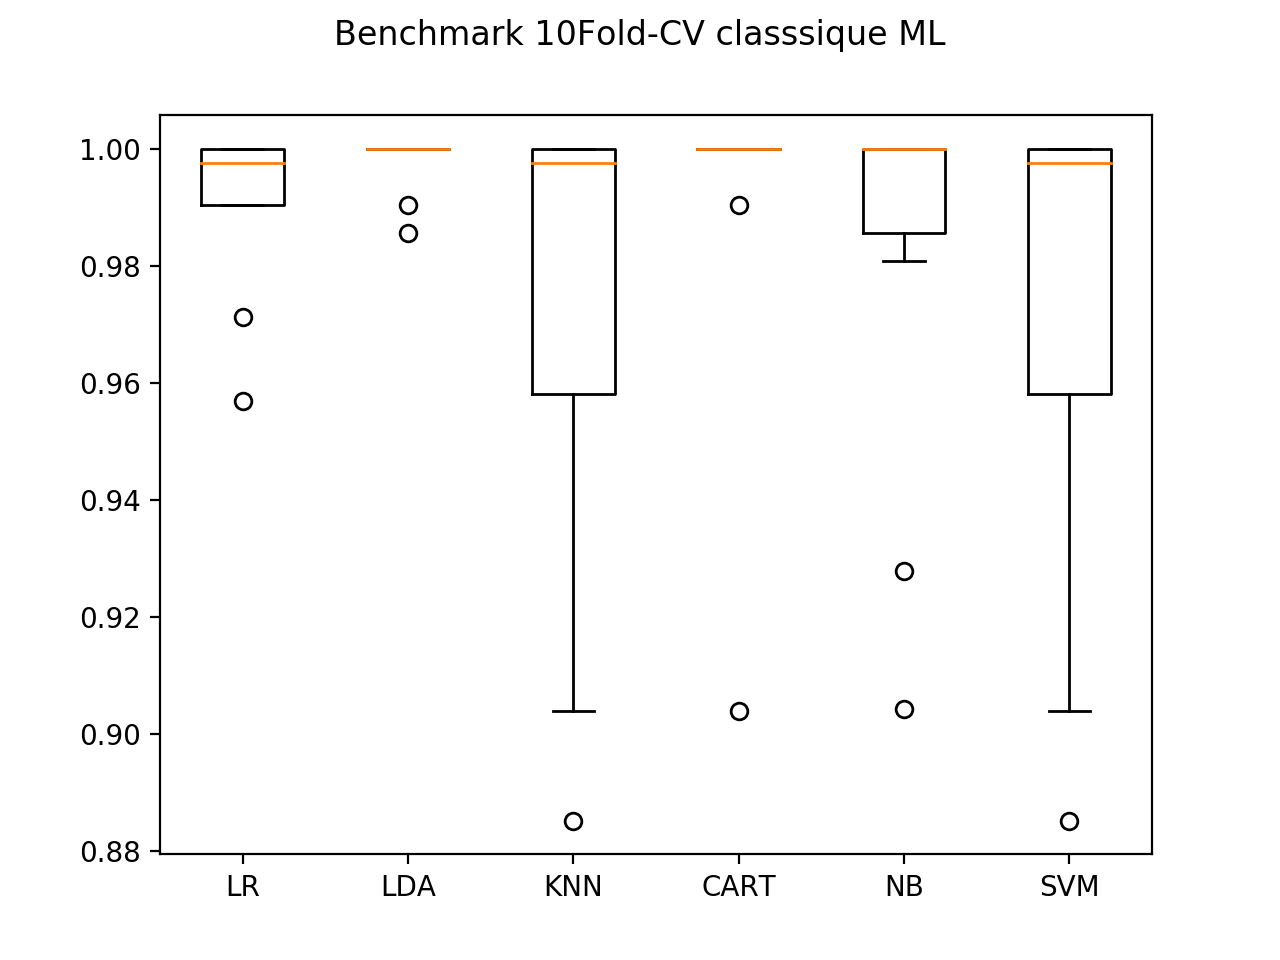
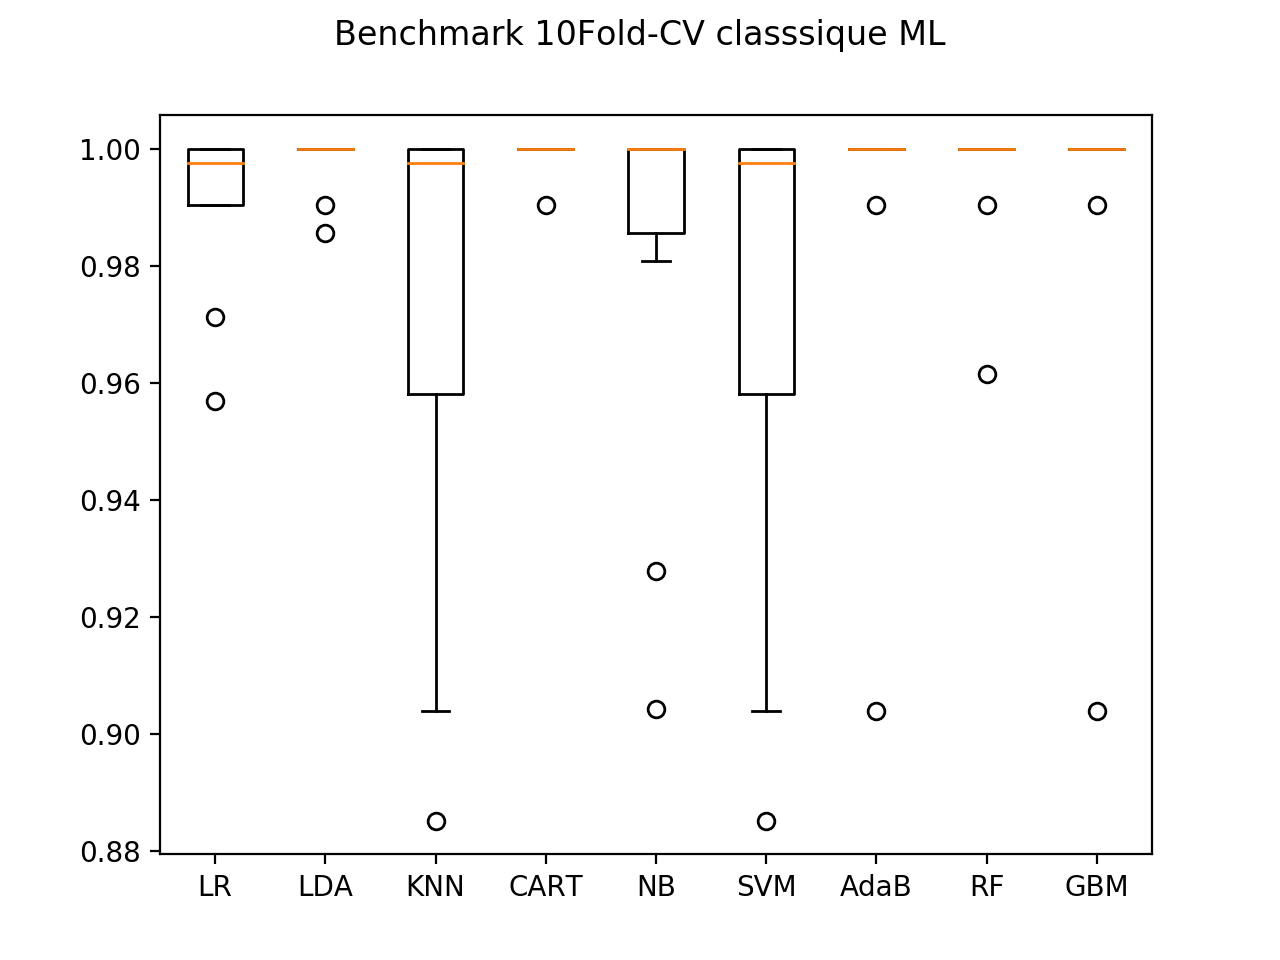
Benchmark classique & ensemble ML

diff --git a/ml4sv.py b/ml4sv.py
@@ -9,6 +9,9 @@ from sklearn.neighbors import KNeighborsClassifier
 from sklearn.discriminant_analysis import LinearDiscriminantAnalysis
 from sklearn.naive_bayes import GaussianNB
 from sklearn.svm import SVC
+from sklearn.ensemble import RandomForestClassifier
+from sklearn.ensemble import GradientBoostingClassifier
+from sklearn.ensemble import AdaBoostClassifier
 
 # load dataset
 #names = ['chr', 'Start', 'End', 'Read_Id', 'Bed_Score', 'Sens', 'CIGAR', 'age', 'CovPerReadRegion', 
@@ -67,6 +70,9 @@ models.append(('CART', DecisionTreeClassifier()))
 models.append(('NB', GaussianNB()))
 #models.append(('SVM', SVC()))
 models.append(('SVM', SVC(gamma='scale')))
+models.append(('AdaB', AdaBoostClassifier()))
+models.append(('RF', RandomForestClassifier()))
+models.append(('GBM', GradientBoostingClassifier()))
 
 #############################
 # evaluate each model in turn
